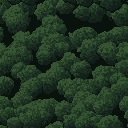
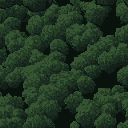
M3: fewer and more natural soil patches
- Ground texture 512x512 with domain-warped soil patches, fixed 15% soil share
- Random ground pattern shift per run
- Independent seeds per generated texture

diff --git a/PLAN.md b/PLAN.md
@@ -232,7 +232,7 @@ Ich erstelle die Platzhalter als PNG genau nach diesen Vorgaben. Für Alpha-Asse
 | `assets/ui/button.png` | 16×16 (9-Slice) | 1 | M1 |
 | `assets/sprites/characters/hero_idle.png` | 32×32, Blick nach Osten (Pixellab) | 1 (später gern Atem-Animation, beliebig viele) | M1 |
 | `assets/sprites/characters/hero_run.png` | 32×32, Blick nach Osten (Pixellab) | 8 (beliebig) | M1 |
-| `assets/tiles/forest_ground.png` | **Nahtloses Bodenmuster** aus 32×32-Kacheln (jetzt 256×256 = 8×8 Kacheln). Jede Zelle nimmt die Kachel an ihrer Position im Muster. Beliebig groß, solange Breite und Höhe Vielfache von 32 sind und das Bild als Ganzes nahtlos ist | 1 Muster | M1 |
+| `assets/tiles/forest_ground.png` | **Nahtloses Bodenmuster** aus 32×32-Kacheln (jetzt 512×512 = 16×16 Kacheln, ca. 15 % Erdflecken mit verzerrten, unregelmäßigen Formen). Jede Zelle nimmt die Kachel an ihrer Position im Muster, das Muster wird pro Run zufällig verschoben. Beliebig groß, solange Breite und Höhe Vielfache von 32 sind und das Bild als Ganzes nahtlos ist | 1 Muster | M1 |
 | `assets/tiles/forest_ground_details.png` | Reihe transparenter 32×32-Details (Steine, Laub, Pilze, Blumen …), zufällig auf ca. 10 % der Kacheln | beliebig viele | M3 |
 | `assets/tiles/forest_canopy.png` | Nahtloses, dichtes Kronendach aus 32×32-Kacheln (jetzt 128×128), füllt alles außerhalb der begehbaren Fläche | 1 Muster | M3 |
 | `assets/tiles/forest_edge.png` | Reihe transparenter 32×32-Waldrand-Stücke, Fußpunkt unten Mitte. Feste Reihenfolge: 0–3 Kronen, 4–5 Büsche, 6–7 Bäume mit Stamm (oberer Rand), 8 Schattenverlauf | 9 | M3 |
